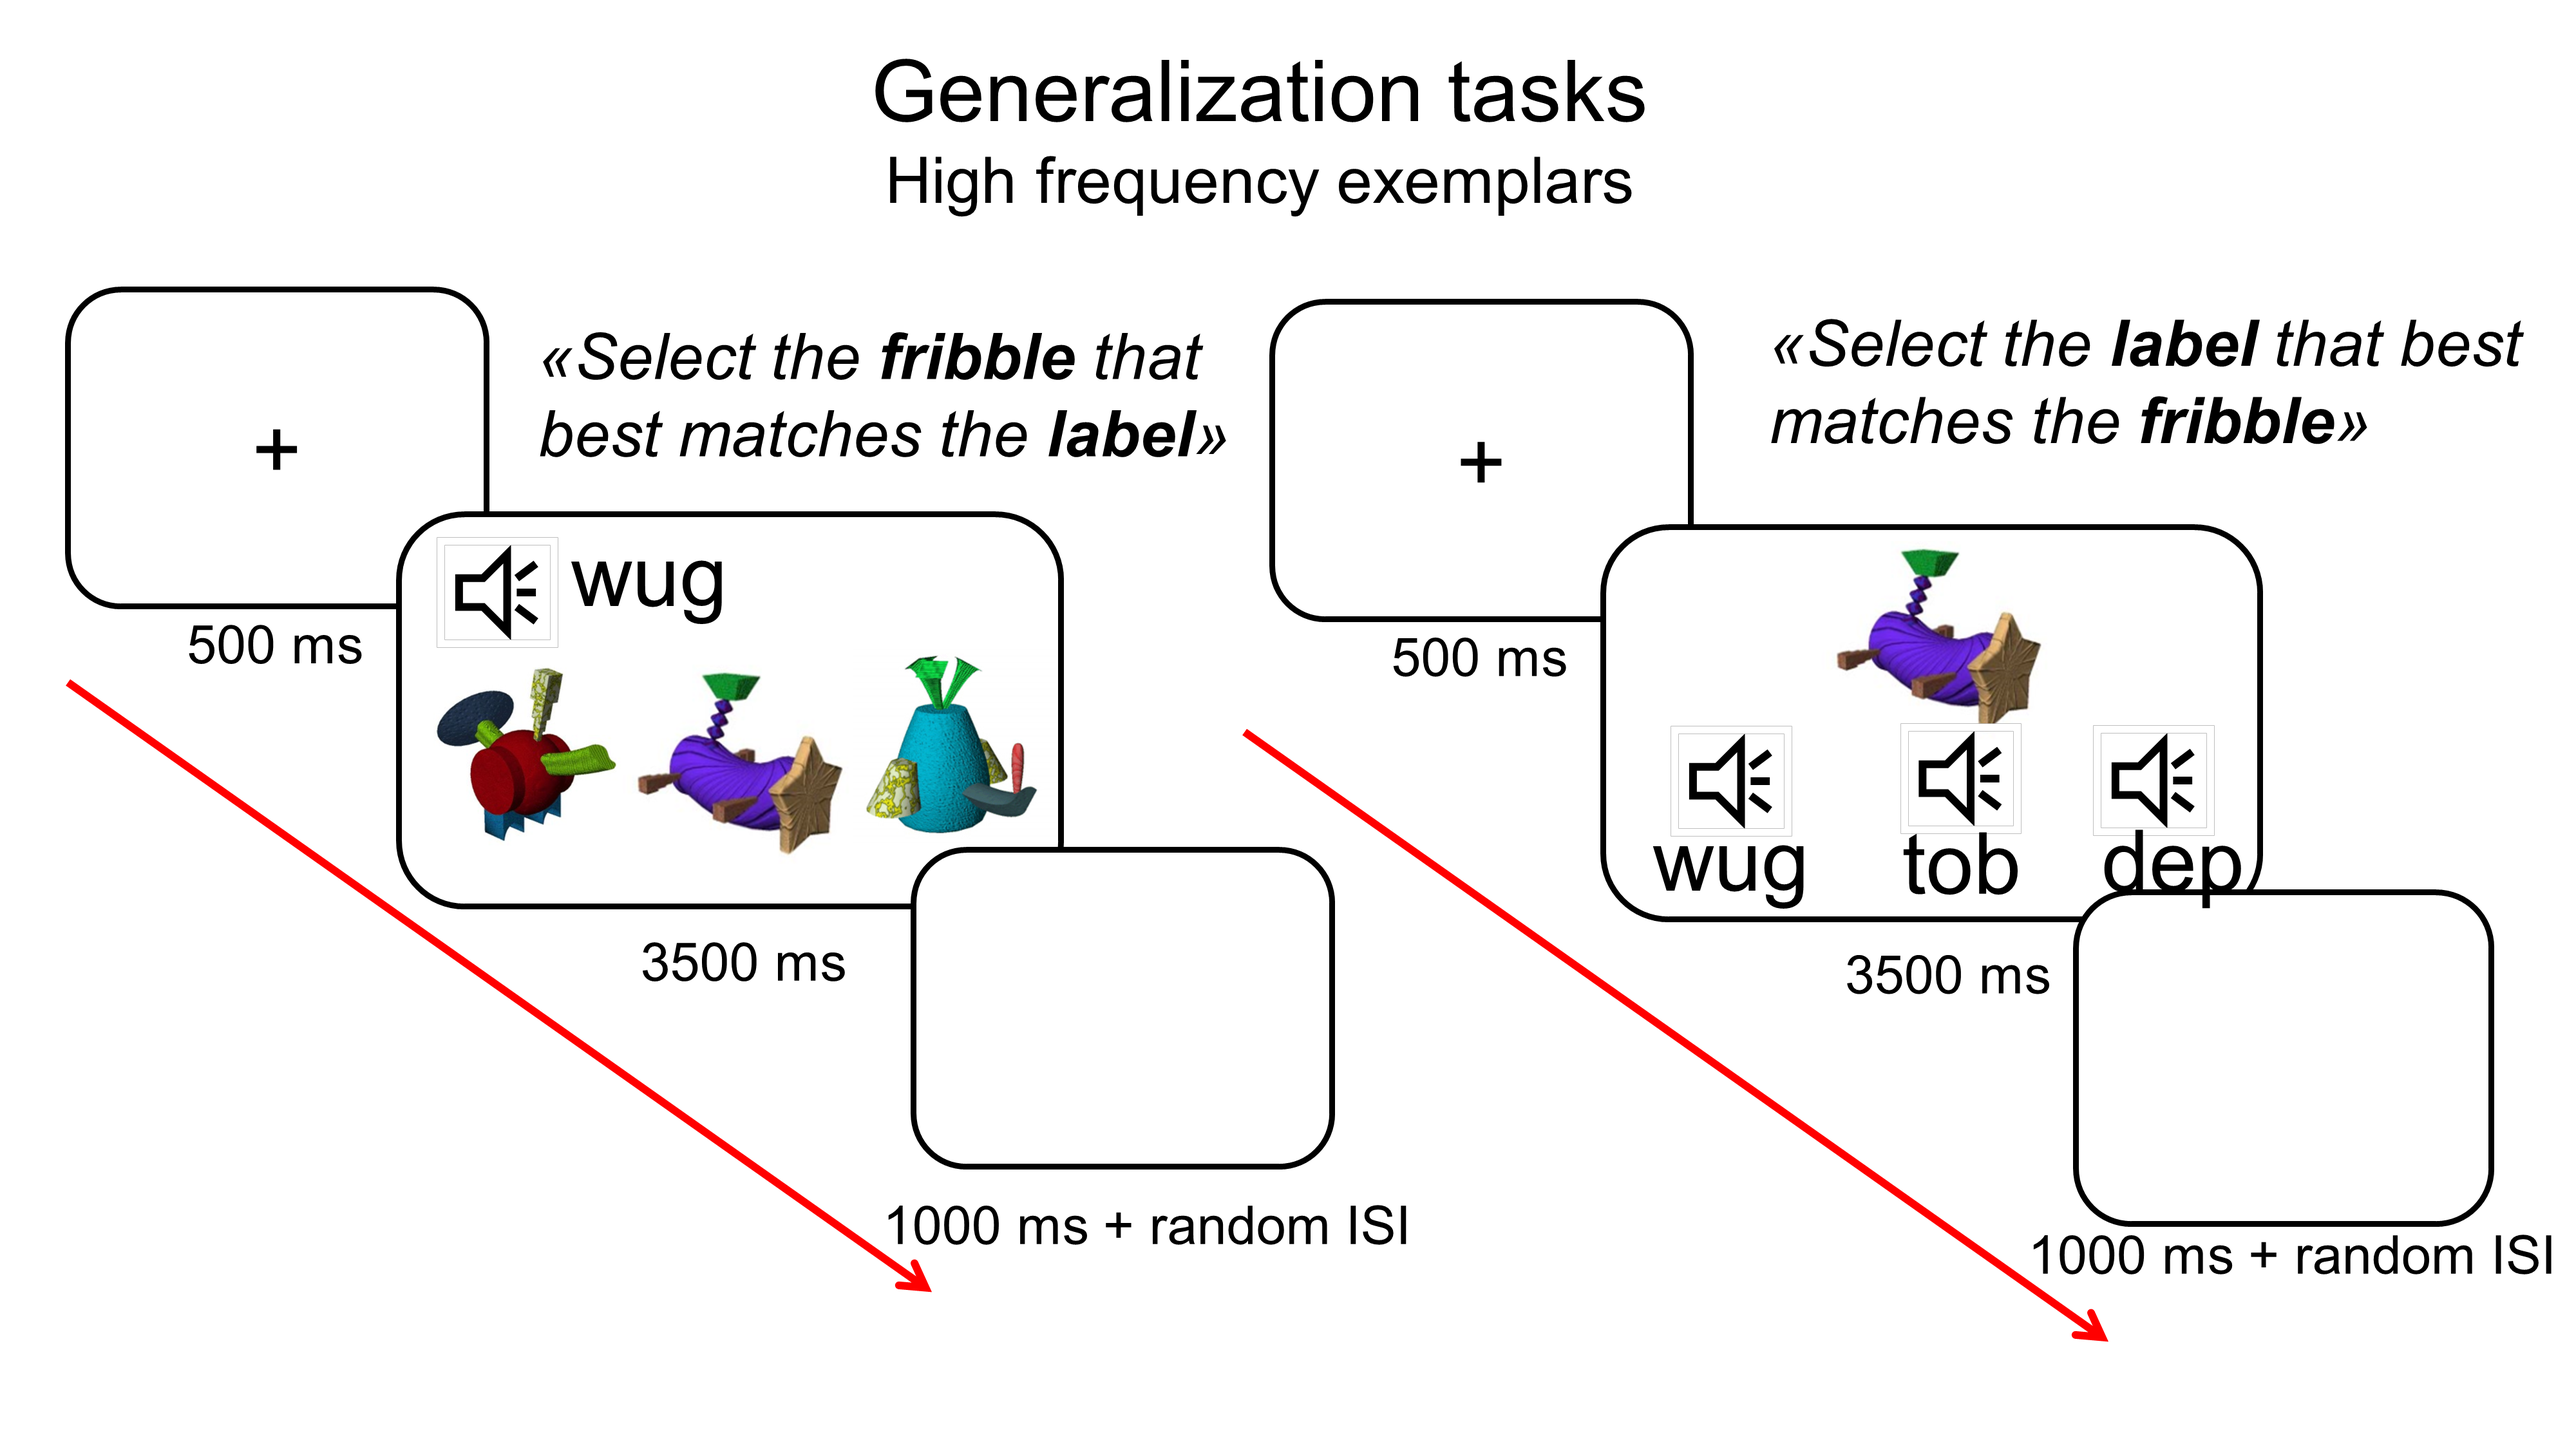
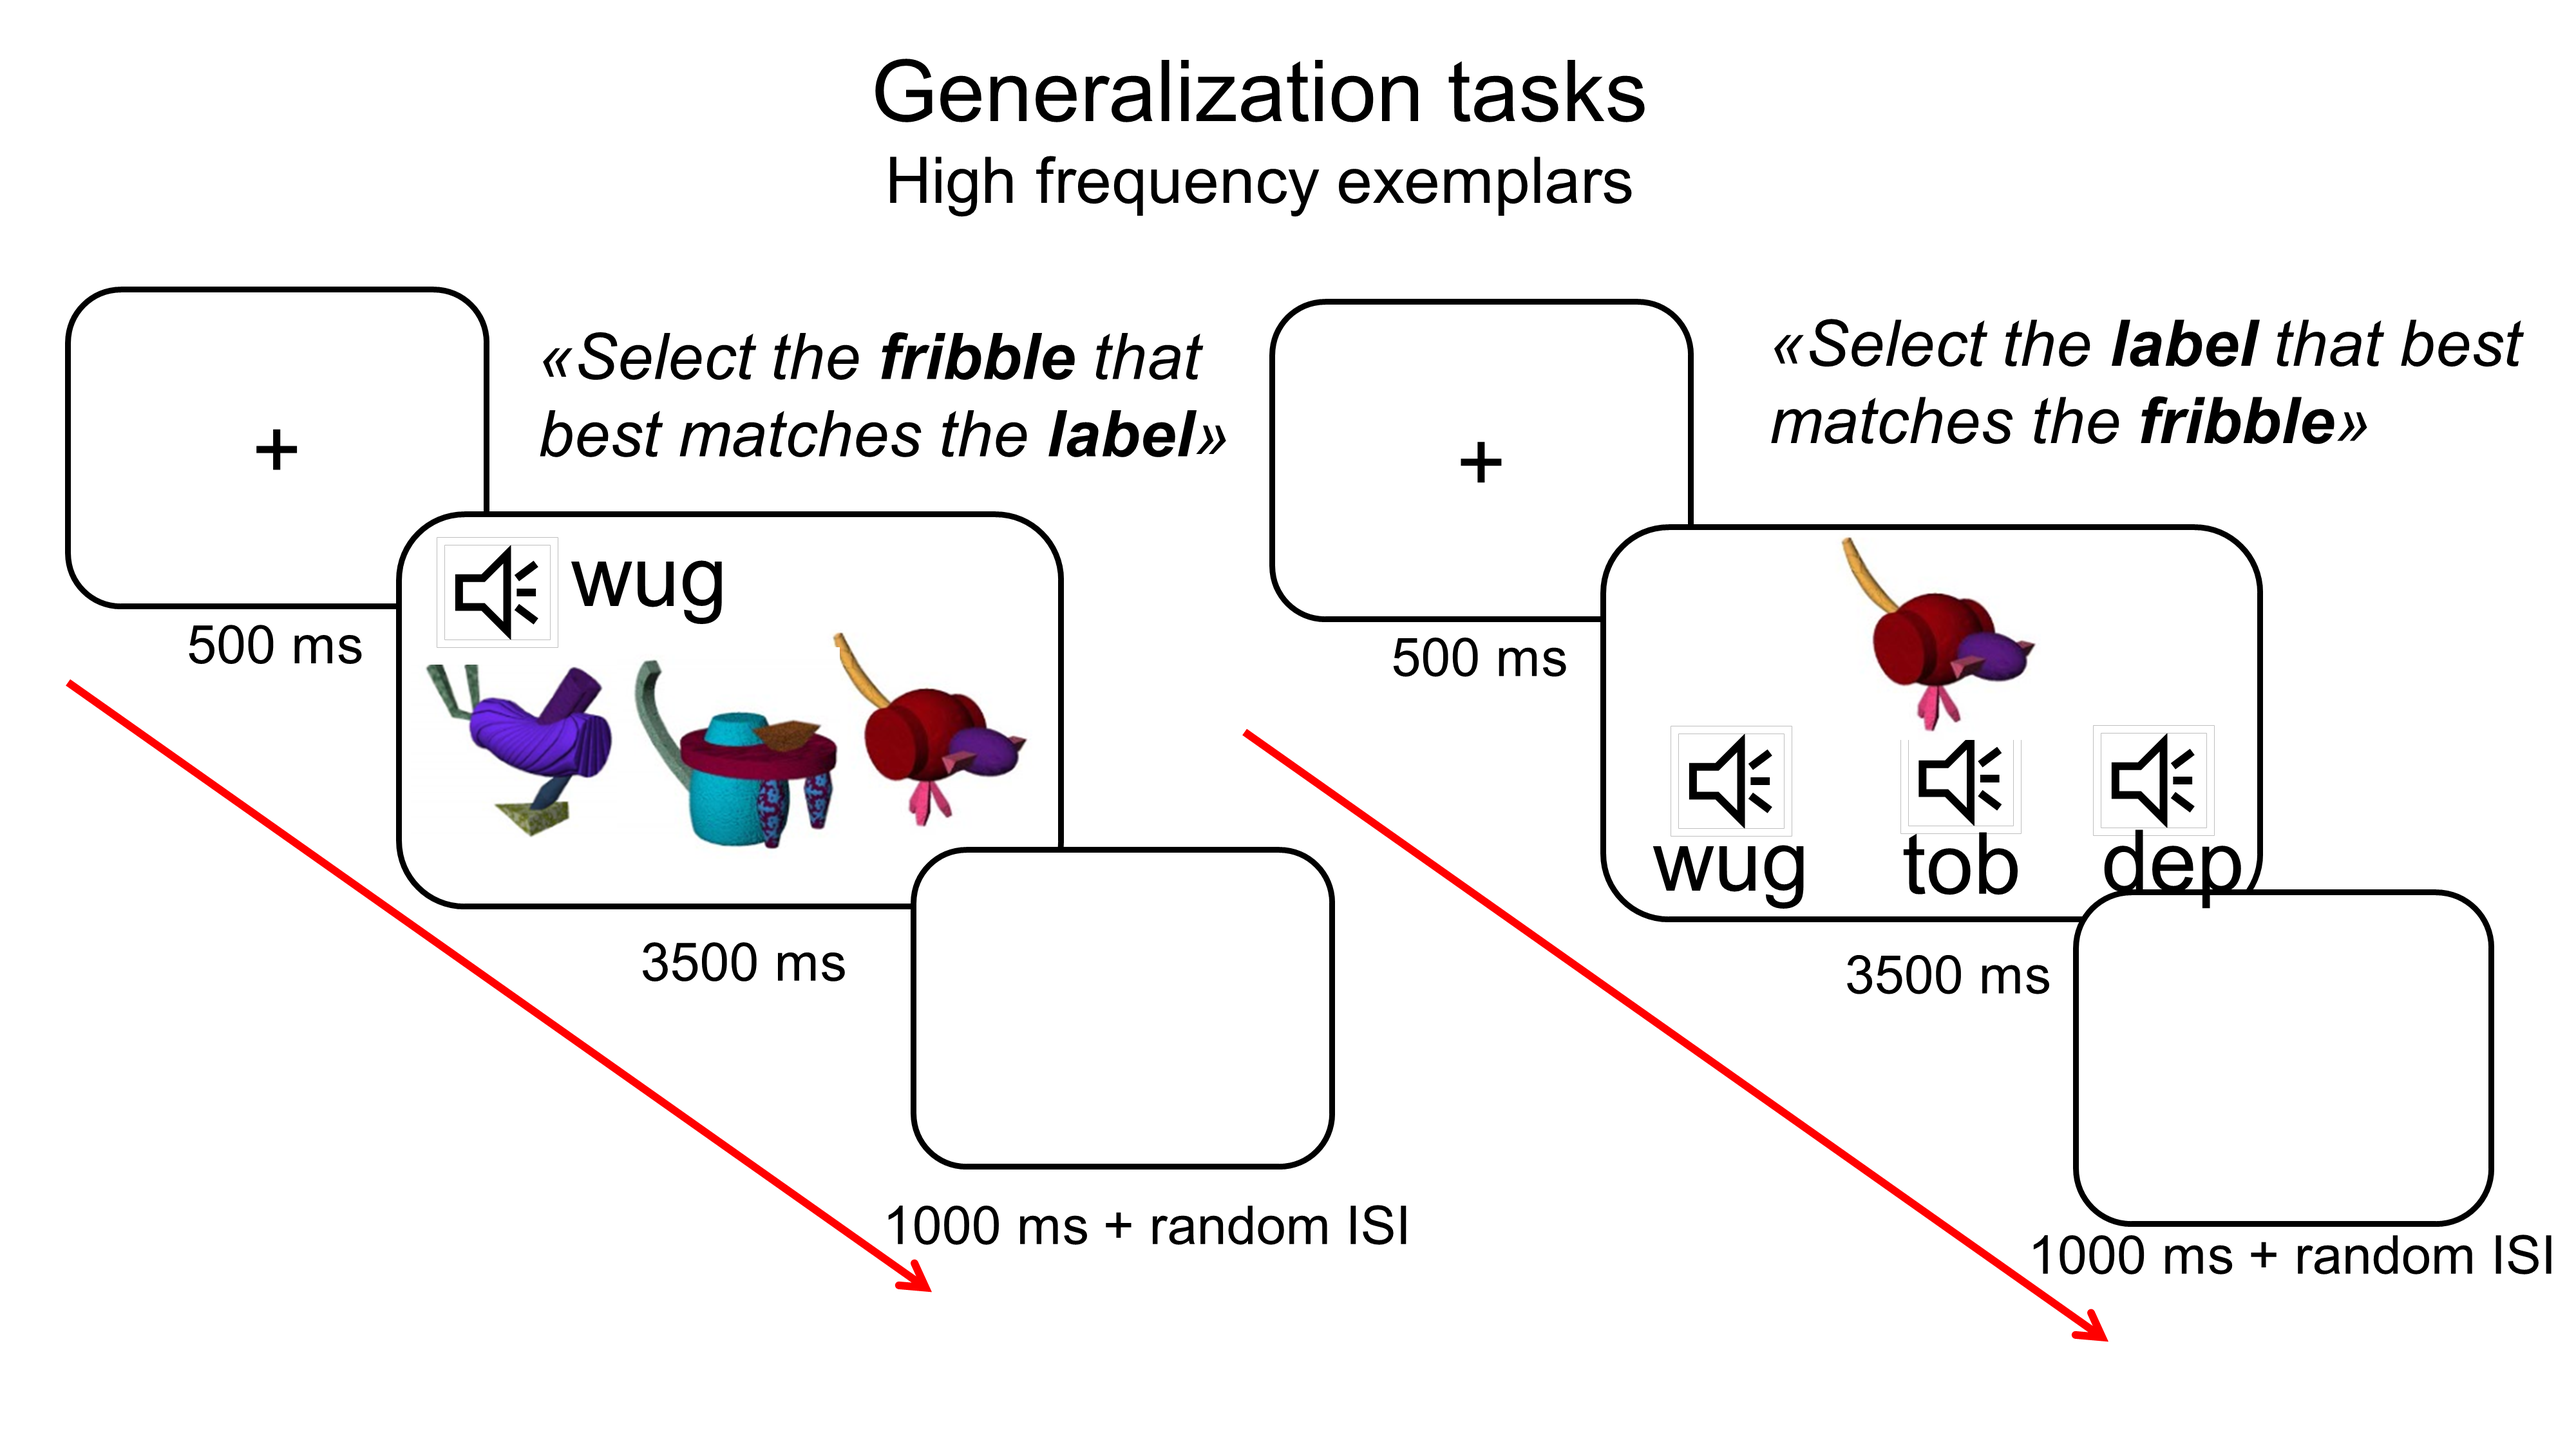
update readme

Changed region(s): [[0.1562, 0.4356, 0.4062, 0.5911], [0.7188, 0.3733, 0.8125, 0.4978]]

diff --git a/exp1/exp1README.md b/exp1/exp1README.md
@@ -38,13 +38,13 @@ We predict a training by frequency interaction.
 
 We are going to introduce a task independent to our main hypothesis in order to have a tool to filter out bad participants.
 
-This task is a random dot motion mini experiment where participants will be presented with a random number of black dots on a white background moving in one direction (left or right). 
+This task is a random dot motion mini experiment (20 trials) where participants will be presented with a random number of black dots on a white background moving in one direction (left or right). 
 They are asked to estimate and report dots' direction in a given time (2s). 100% of the dots move coherently in one direction, so the task is extremely easy no matter the age and visual acuity of the participants (See Hutchinson, C. V., Arena, A., Allen, H. A., & Ledgeway, T. (2012). Psychophysical correlates of global motion processing in the aging visual system: a critical review. Neuroscience & Biobehavioral Reviews).
 This task is going to be presented to participants on a pseudo-random basis for a maximum of 4 times during the learning phase. 
 We will exclude participants on the basis of how many timeouts they had during the whole experiment, fixing a max to 2, but not on the performance of the task. 
 This will guarantee us that participants payed attention at least for half of the learning.
 
-![Stimuli expe1](script/testing/randomDot.png)
+<img src="script/testing/randomDot.png" width=600 align=center>
 
 
 #### 5)	Method and materials #### 
@@ -80,46 +80,35 @@ Practice trials are 4 trials with fribbles and labels not present during learnin
 
 Testing (8 min in total)
 
-Learning and generalization will be assessed through three tasks.
+Generalization is assessed through two tasks.
 These tasks are the same as described in Ramscar (2010) and aim at probing the ability of the participants to generalise the cue-outcome association to novel exemplars. 
 Participants match a label to four unseen exemplars drawn from each category in the first task, subsequently they match unseen exemplar to the three category labels in the second task.
-Order of these two tasks is counterbalanced across participants.
-
-Timelines of the tasks:
-
-<img src="script/testing/generalization_HF.png" width=500 align=center>
-<img src="script/testing/generalization_LF.png" width=500 align=center>
-
-
+The order of presentation is counterbalanced across participants.
 To limit participants’ ability to learn by contrasting between similar exemplars during testing, testing trials are composed either of all low-frequency or of all high-frequency exemplars separately. 
-Participants are instructed to respond as quickly as they could (3500ms timeout). 
+Participants are instructed to respond as quickly as possible (3500ms timeout). 
 
-Each high frequency subcategory has 6 exemplars per category (6 x 3), while low frequency subcategory has 2 exemplars per category (2 x 3). 
-For each generalization task, each subcategory (high/low frequency) will be tested 3 times each, therefore we will have 48 trials per task. 
-If there will be no differences between the two generalization tasks, we can merge them together and have 96 trials per participant.
+Timelines of the tasks for high and low frequency exemplars:
 
-
-Stimuli of the generalization tasks I and II:
-
-Participants are presented with all trained labels, while pictures are novel/unseen fribbles with features matching one of the label only.
-This makes up to a novel dataset of 48 unseen fribbles, i.e., with matching features but placed in a different order.
-
-The final task is a *Contingency judgement task* (5 min). This task is inspired by Kopp and Wolff, 2000 *Biological Psychology* where authors demonstrated that event-related potentials in a human contingency task
-indicate that learning is error-driven, i.e., resulting from cue competition.
-The aim of this test is to probe 1. generalization of the cue-outcome association and 2. obtain a measure directly linked to the computational model. 
-Subjects are presented with all trained fribbles presented one by one along with a label and are asked to estimate the likeliness that the fribble presented is associated to the name they hear. 
-Instructions: Please express your judgement on how *well* do you think this label goes with the fribble presented to you. 
-Use a scale from -10 to +10, where +10 is “it’s very likely that this is the fribble’s name” and -10 is “it’s not very likely that this is the fribble’s name”. 
-Zero indicates “Not sure”. 
-
-Stimuli will be novel fribbles belonging to the three categories (24) repeated once per label (x3), for a total of 72 trials. 
-In addition, 8 unseen object foils will be displayed only once. 
-These are novel objects for which participants should always report Zero, i.e., not sure.
-A random label will be matched to the foils. 
-In total, there will be 72 experimental trials and 4 practice trials. 
-Practice trials will be made of 2 known words (e.g., house, cat) and 2 unknown words (e.g., puly, fret) associated to two images of a house and a cat. 
+<img src="script/testing/generalization_HF.png" width=600 align=center>
+<img src="script/testing/generalization_LF.png" width=600 align=center>
 
 
-![Stimuli expe1](script/testing/contingencyJudgement.png)
+- Stimuli of the label to pictures matching: 12 high and 12 low frequency unseen exemplars are randomly presented with one of the three labels. HF and LF categories are tested 12 times each, 24 trials in total. 
+Labels are repeated 8 times each. Pictures are never repeated. 
+
+- Stimuli of the picture to labels matching: 4 high and 4 low frequency unseen exemplars are presented with the three labels. Order of the labels playes is randomised. HF and LF categories are tested 12 times each, 24 trials in total.
+
+If there is no difference between the two generalization tasks, we can merge them together and have 48 trials per participant.
+
+The final task is a contingency judgement task (Kopp and Wolff, 2000 *Biological Psychology*). 
+The aim of this test is to probe 1. generalization of the cue-outcome association and 2. obtain a measure that might be compared with the positive/negative weights of the computational model. 
+Subjects are presented with unseen fribbles + label and are asked to estimate the strength of their association. 
+
+Instructions: You are going to see one novel alien on the screen and hear a name. Your job is to use the sliding scale to say whether you think the word 
+is the correct label for the picture. Use a scale from -100 to +100, where +100 means you are really sure it’s the correct label, -100 means you are really sure it ISN’T the correct label and 0 means you don’t know.
+
+Stimuli: 4 high and 4 low frequency unseen exemplars are presented with one label. HF and LF categories are tested 12 times each, 24 trials in total. Labels are repeated 8 times each.
+
+<img src="script/testing/contingencyJudgement.png" width=600 align=center>
 
 
